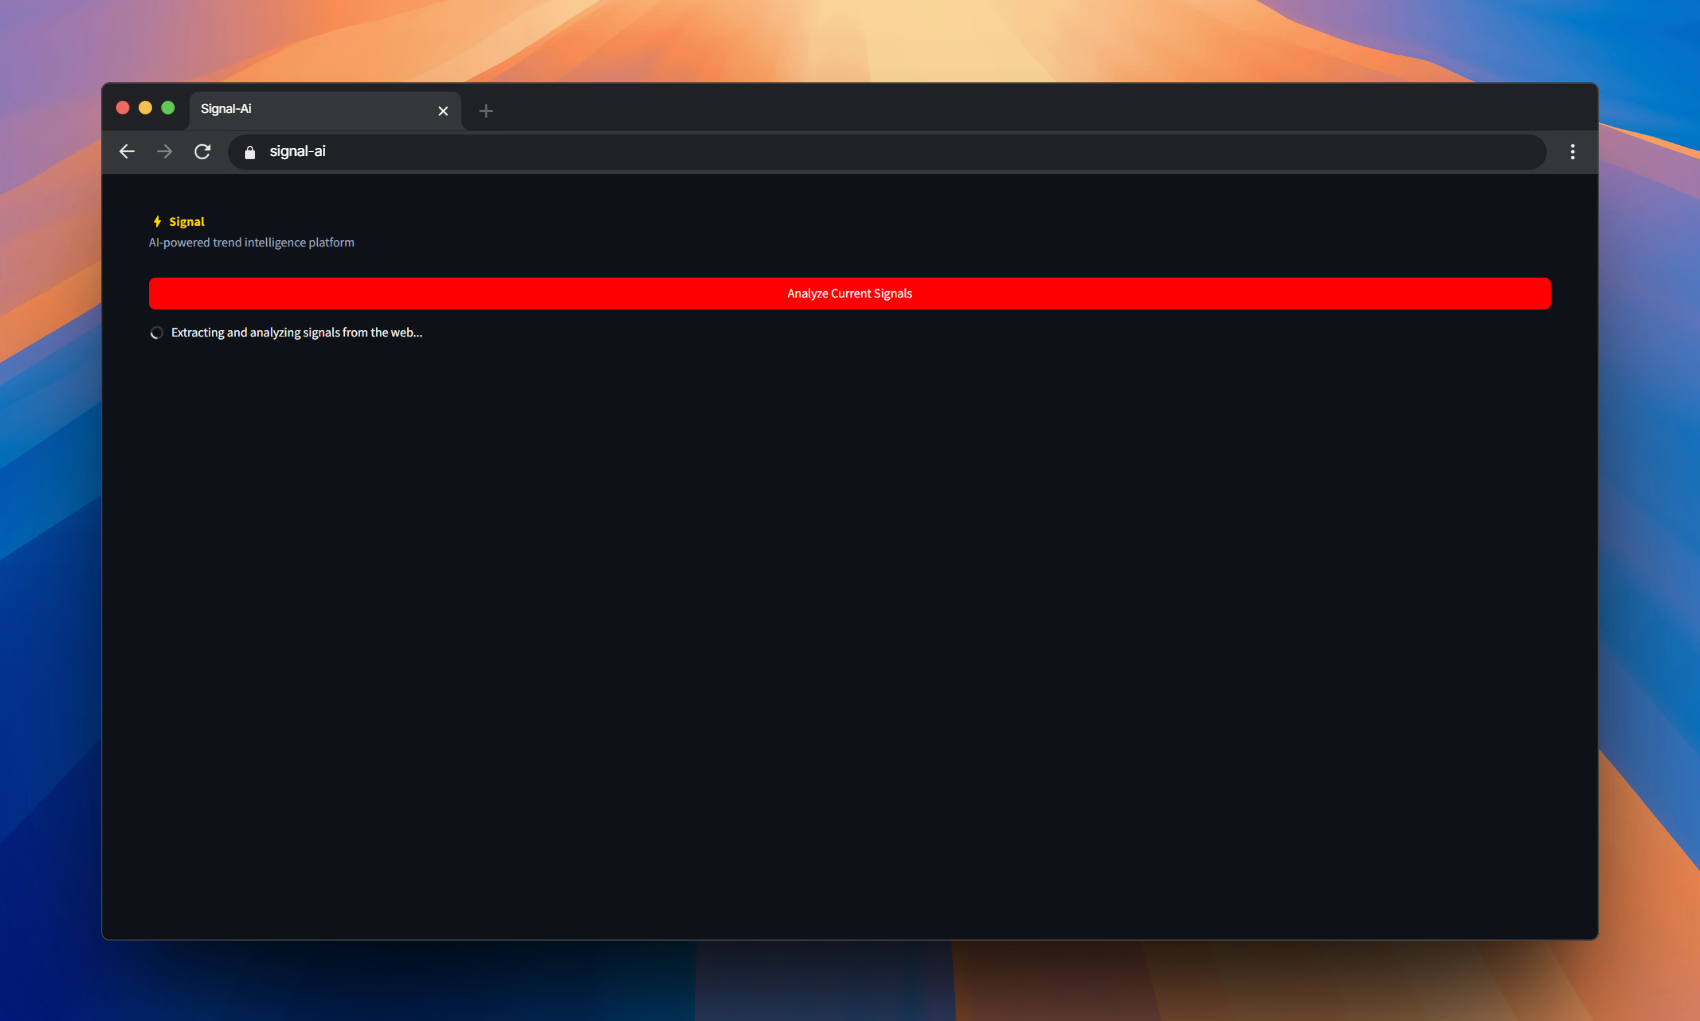
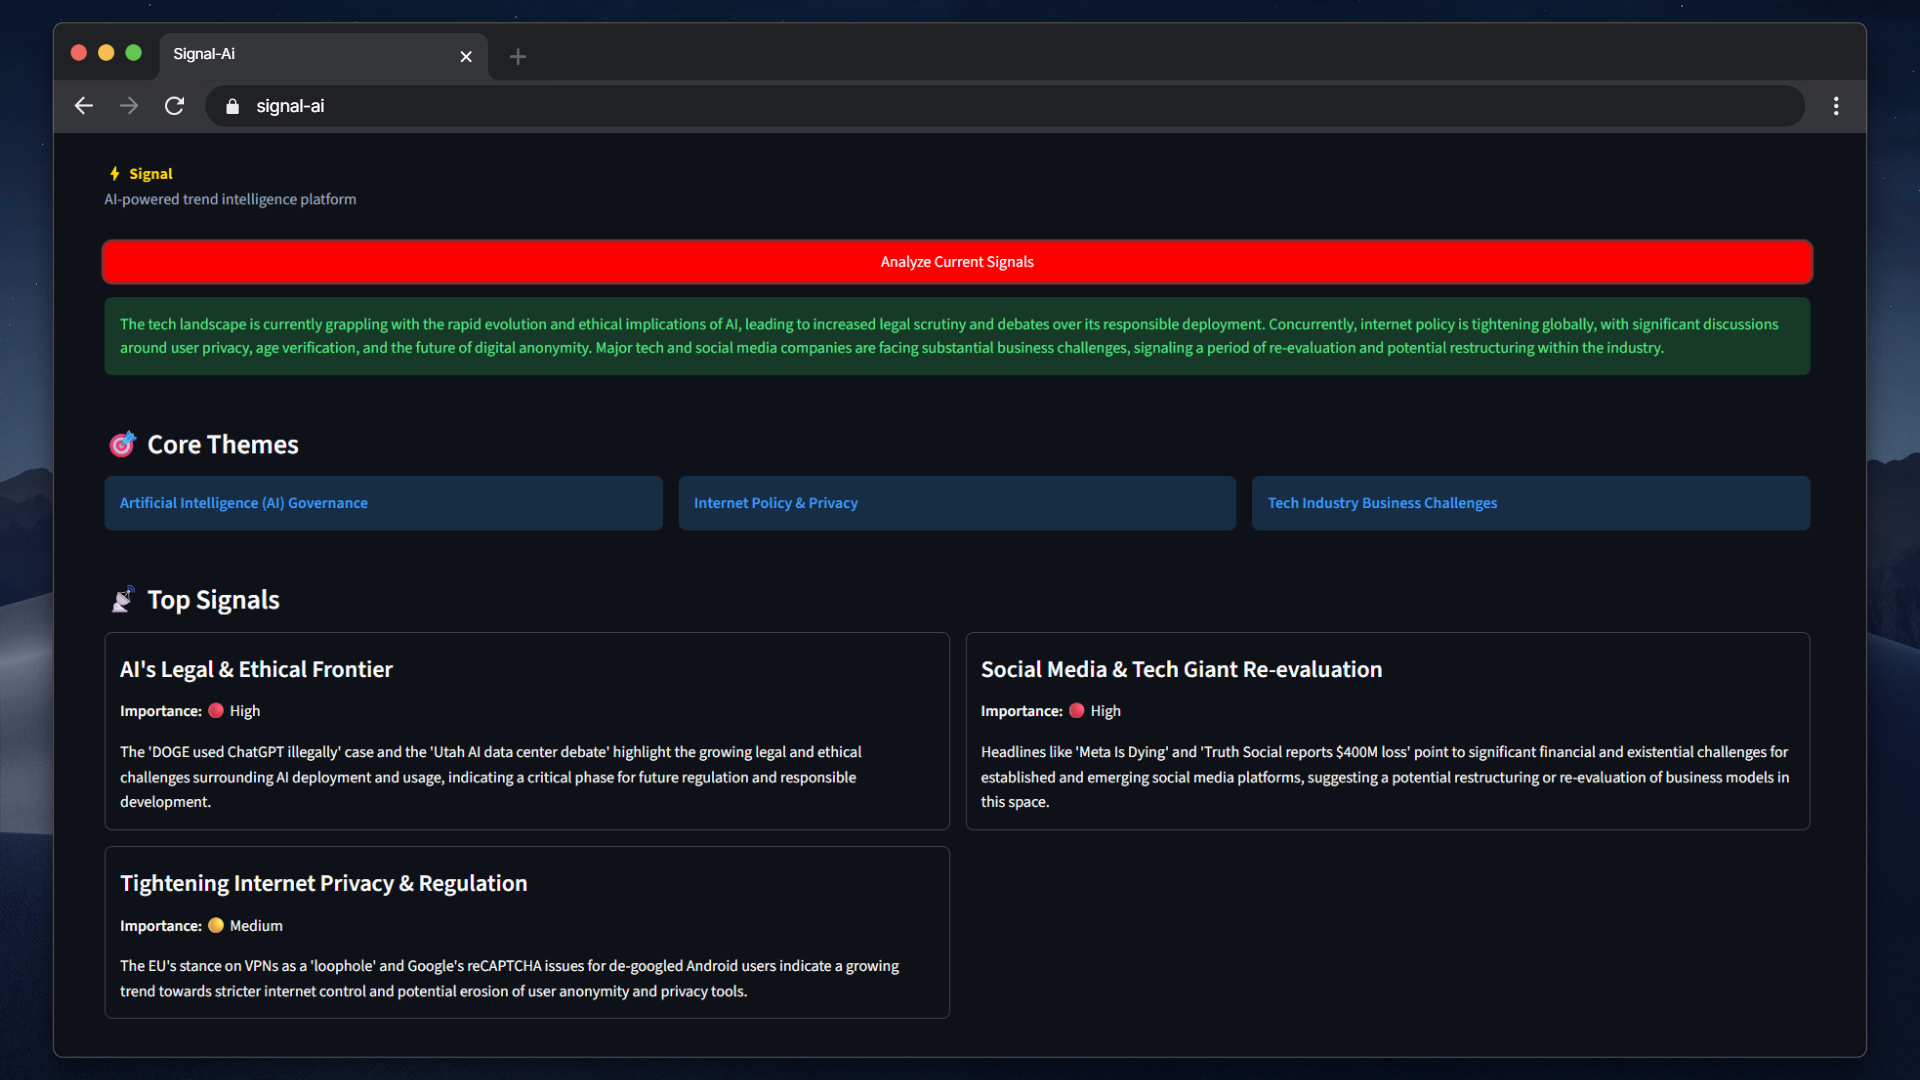
docs: ajustar tamaño y posición de capturas en el README

diff --git a/README.md b/README.md
@@ -36,8 +36,9 @@ Sources (Reddit/HN) ➔ FastAPI (Data Ingestion) ➔ Gemini AI (Inference & Scor
 
 ## 📸 Screenshots
 
-![Signal Dashboard](screenshots/dashboard1.png)
-![Signal Signals](screenshots/dashboard2.png)
+![alt text](screenshots/dashboard2.png)
+
+![alt text](screenshots/dashboard1.png)
 
 ## 🚀 Setup & Installation
 